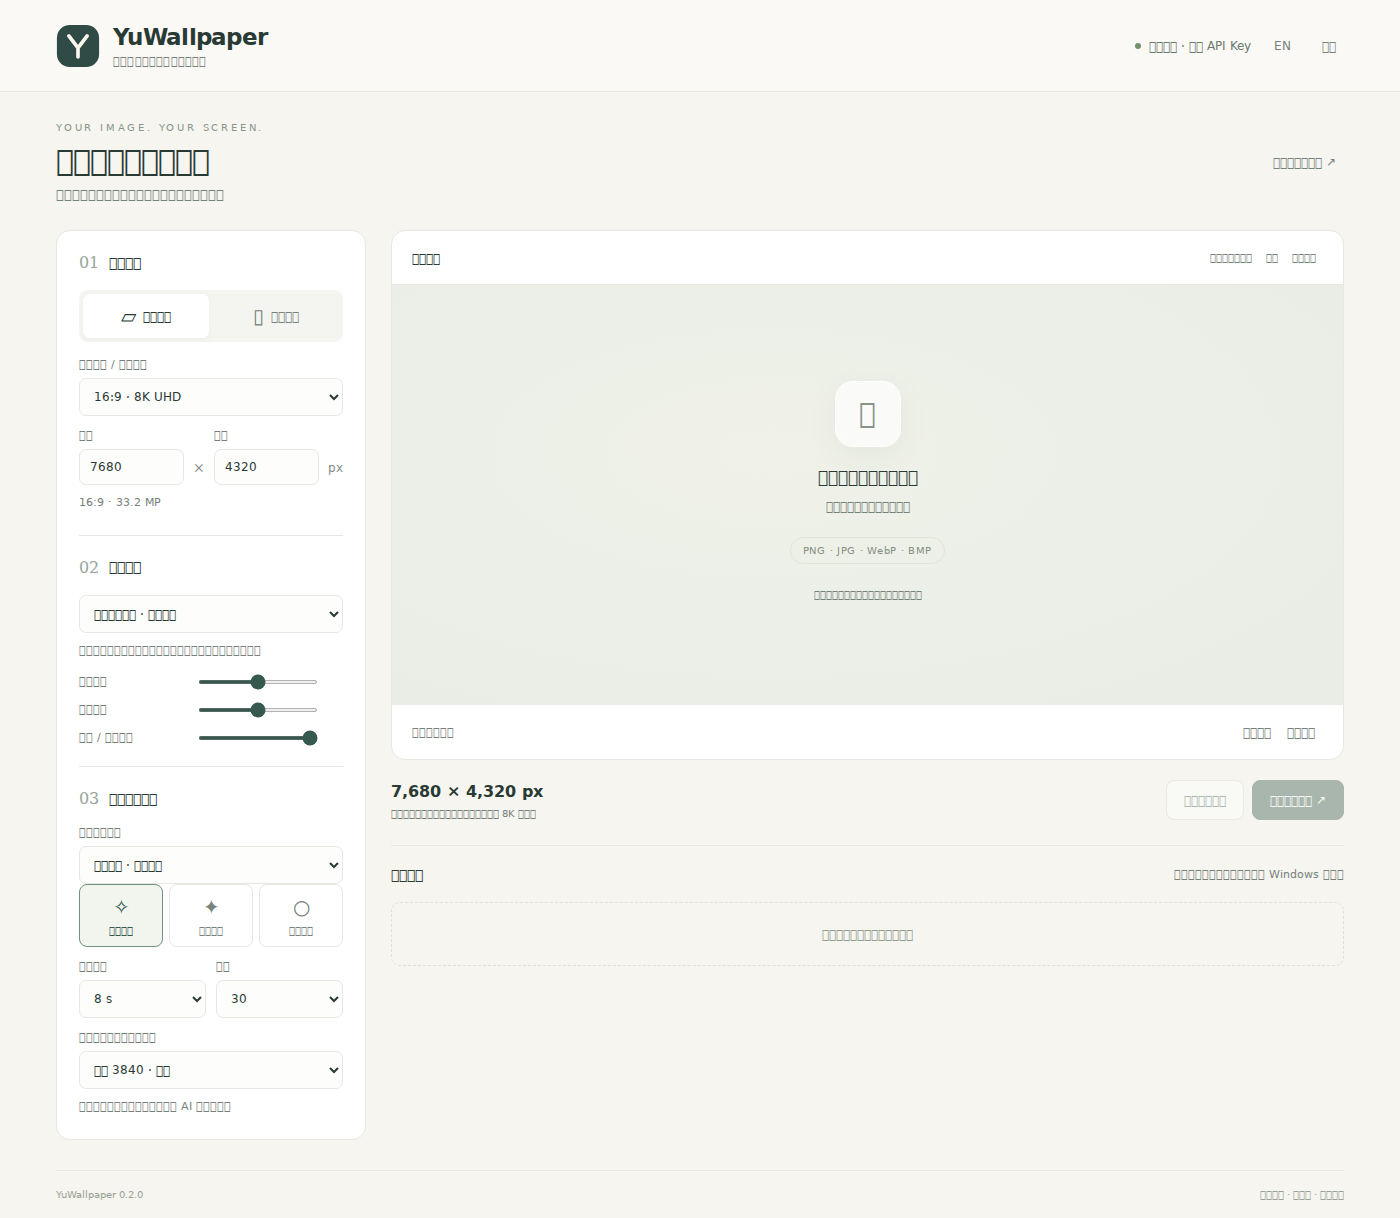
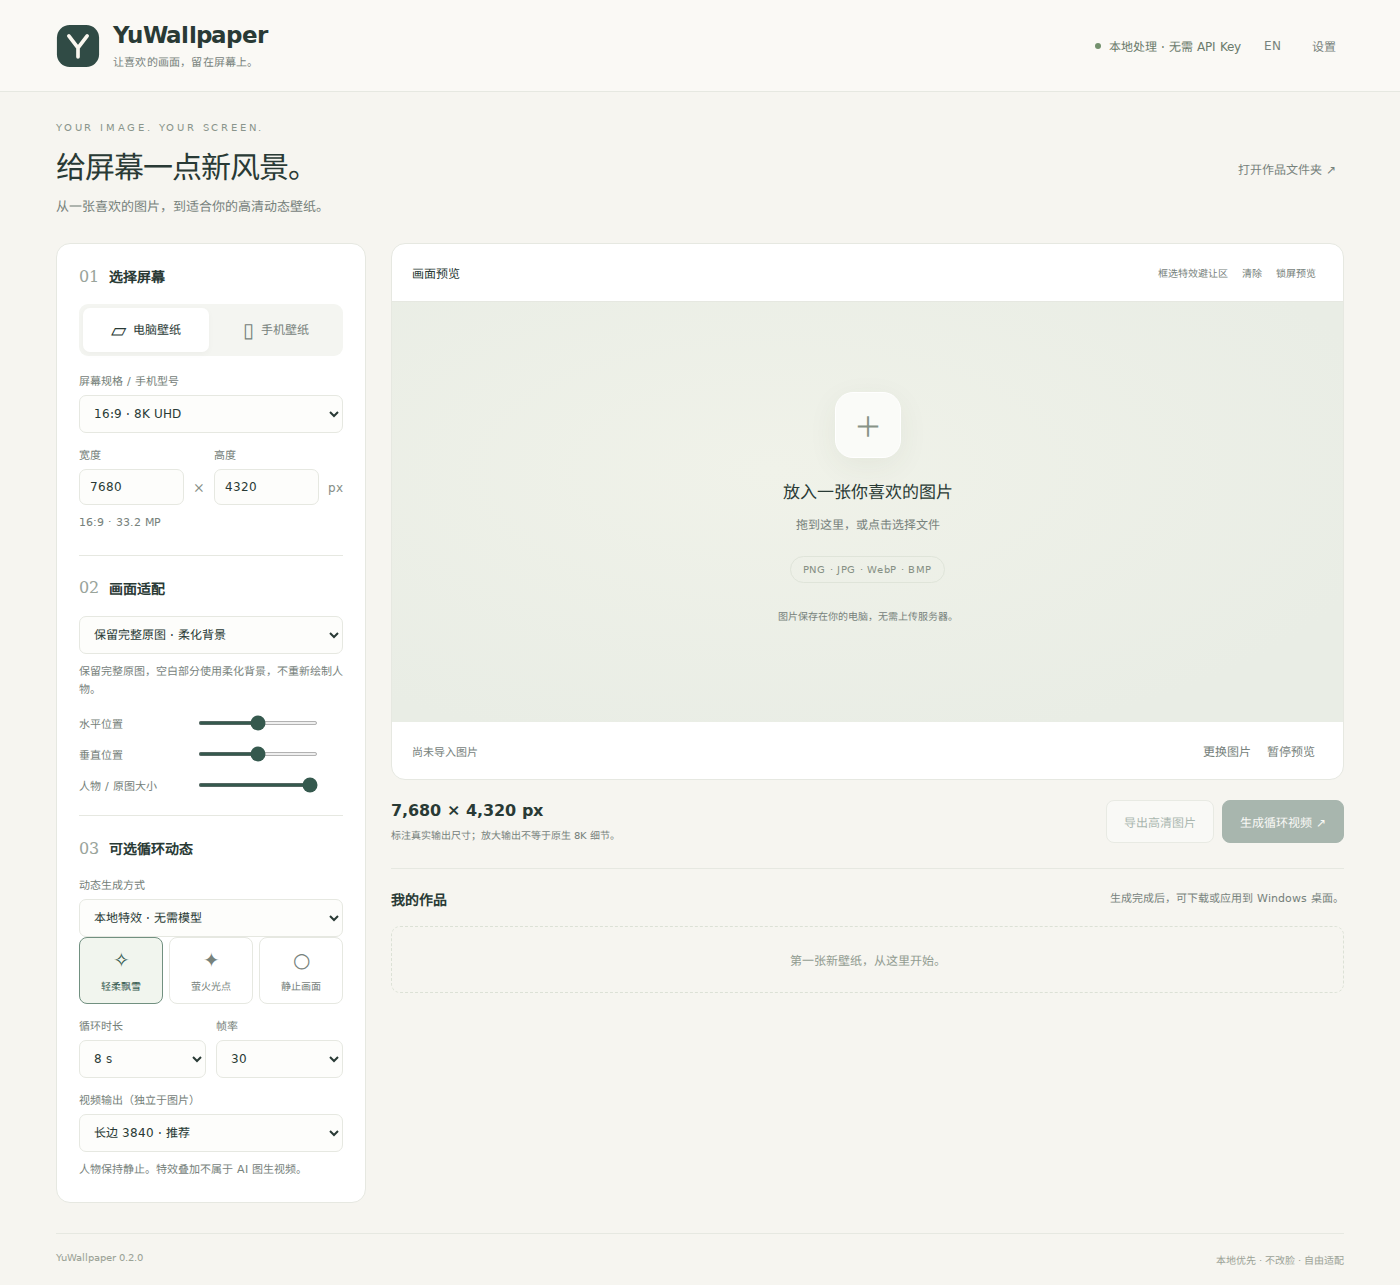
Fix Chinese documentation screenshots with a CJK font

diff --git a/docs/VALIDATION.md b/docs/VALIDATION.md
@@ -1,5 +1,9 @@
 # Validation — v0.2.0
 
+## Documentation screenshot correction
+
+Chinese desktop, phone and empty-state screenshots were regenerated with Noto Sans SC installed in the capture environment. The previous images showed missing-glyph boxes because that environment lacked a CJK font. The replacement images were visually inspected for readable Chinese text. This corrects documentation images; application code is unchanged. Future Chinese screenshot captures must use a CJK-capable font and be visually checked before publication.
+
 ## Passed in this build environment
 
 - Python unit / integration suite: 17 tests, including foreground pixel preservation, EXIF orientation, crop coverage, particle periodicity, effect protection, invalid dimensions, real FFmpeg encoding, cancellation, authenticated loopback access, cross-origin rejection, traversal rejection, upload-to-export workflow, output byte ranges, and completed-history restoration.
